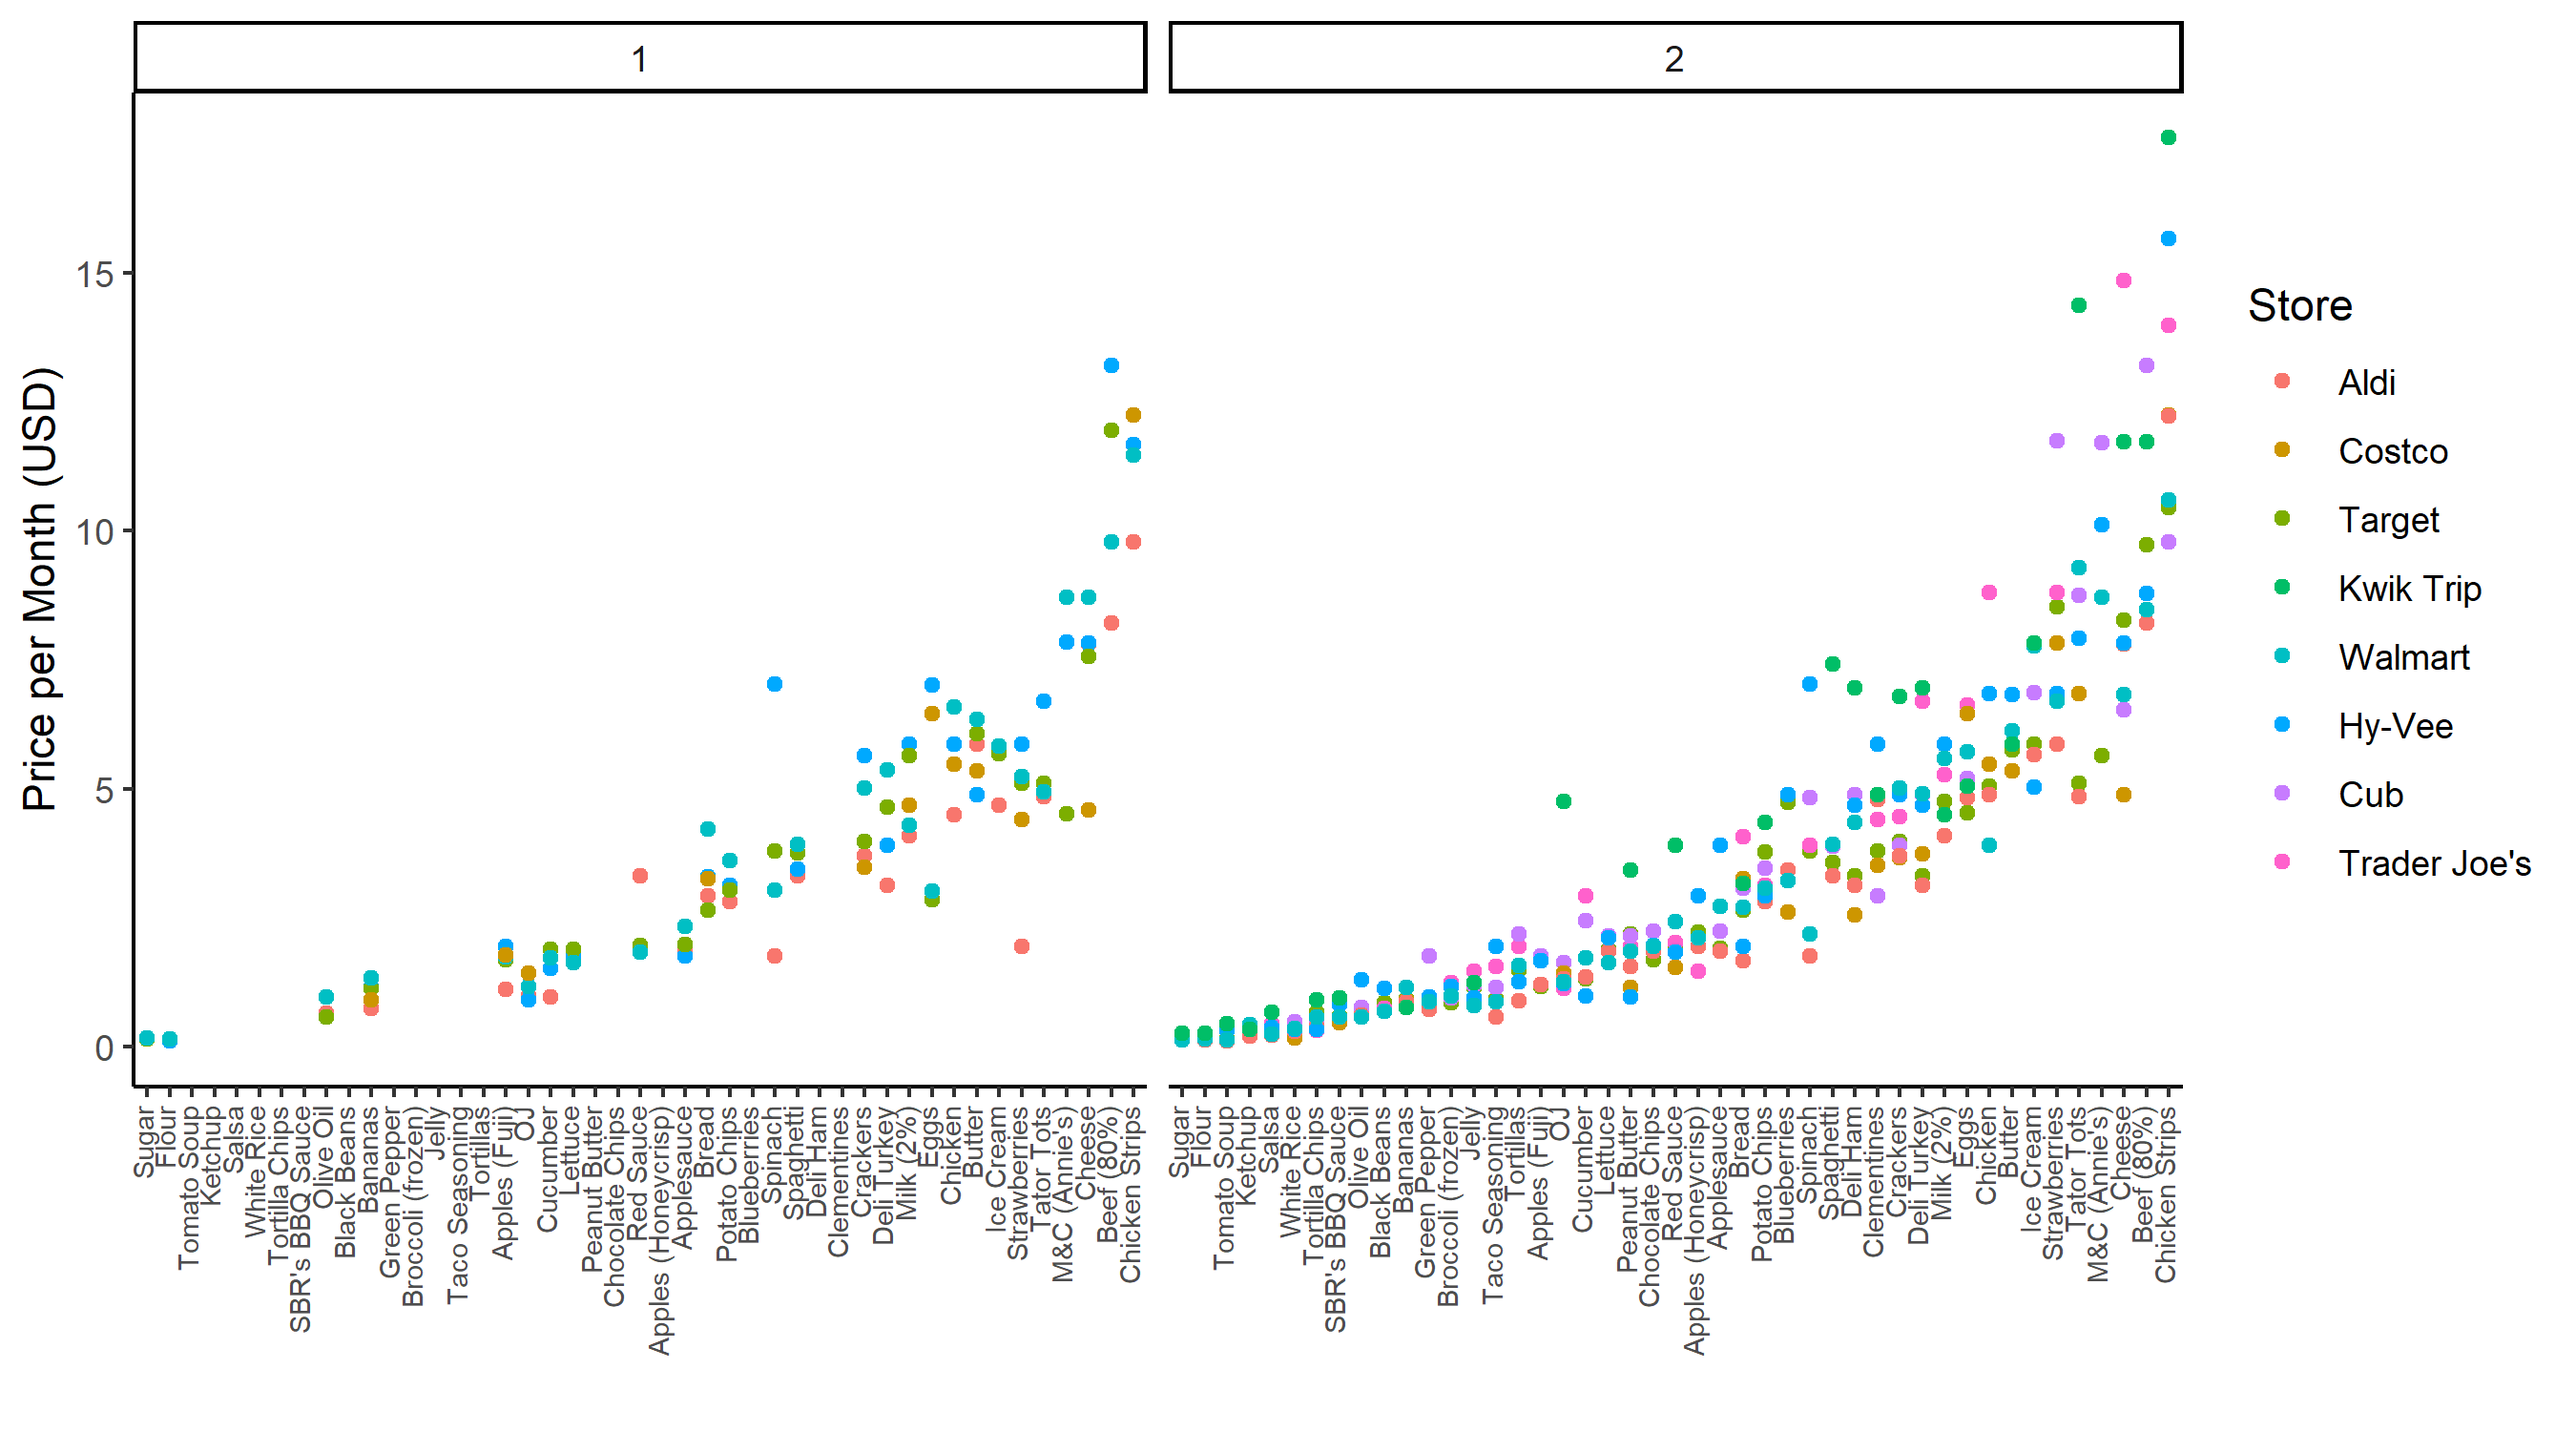
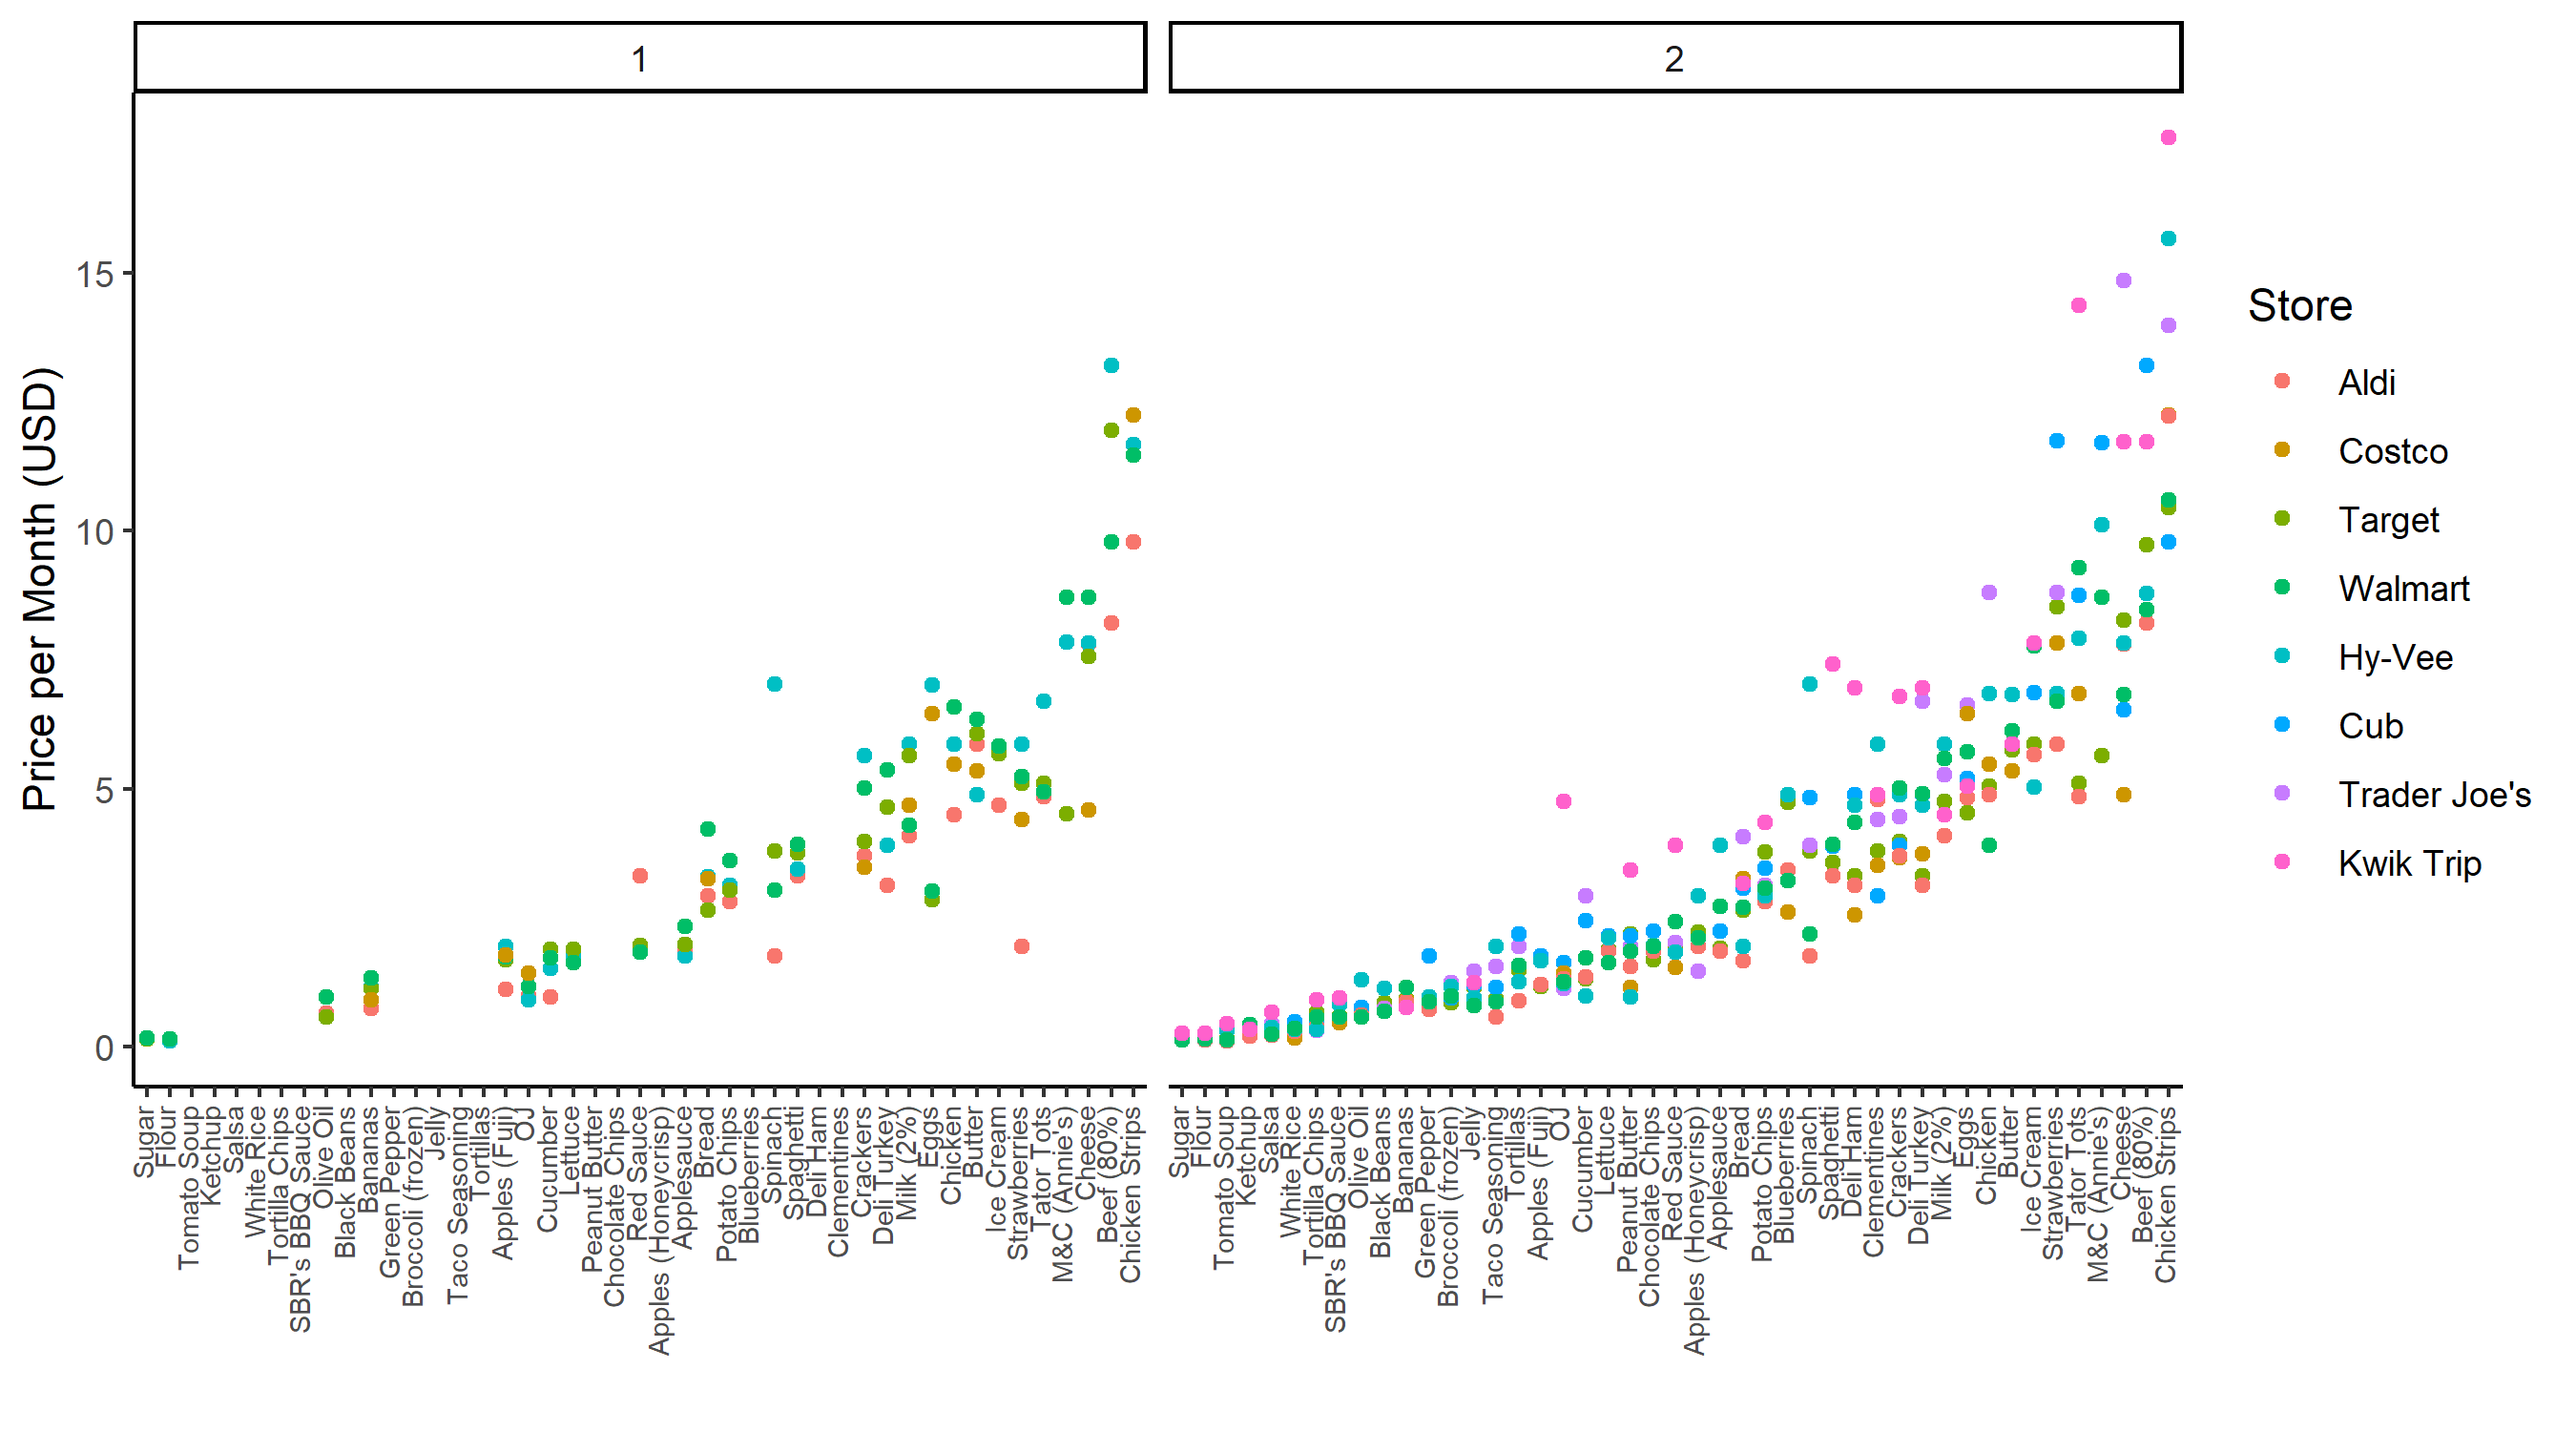
Reorder stores to be in increasing order

diff --git a/results2.md b/results2.md
@@ -18,24 +18,24 @@ Number of obs: 421, groups:  Item, 45; seasonal, 2
 
 Fixed effects:
                    Estimate Std. Error        df t value Pr(>|t|)
-(Intercept)         0.69381    0.33353   1.80554   2.080 0.186564
-StoreCostco         0.08229    0.05133 368.26188   1.603 0.109760
-StoreTarget         0.13817    0.04006 368.08132   3.450 0.000627
-StoreKwik Trip      0.60458    0.05447 368.20468  11.099  < 2e-16
-StoreWalmart        0.19354    0.03990 368.08022   4.850 1.82e-06
-StoreHy-Vee         0.27090    0.03990 368.08022   6.789 4.54e-11
-StoreCub            0.32719    0.04540 368.15802   7.208 3.25e-12
-StoreTrader Joe's   0.33595    0.05014 368.25296   6.701 7.78e-11
+(Intercept)         0.69381    0.33353   1.80553   2.080 0.186564
+StoreCostco         0.08229    0.05133 368.26187   1.603 0.109760
+StoreTarget         0.13817    0.04006 368.08131   3.450 0.000627
+StoreWalmart        0.19354    0.03990 368.08021   4.850 1.82e-06
+StoreHy-Vee         0.27090    0.03990 368.08021   6.789 4.54e-11
+StoreCub            0.32719    0.04540 368.15801   7.208 3.25e-12
+StoreTrader Joe's   0.33595    0.05014 368.25295   6.701 7.78e-11
+StoreKwik Trip      0.60458    0.05447 368.20467  11.099  < 2e-16
 
 Correlation of Fixed Effects:
-            (Intr) StrCst StrTrg StrKwT StrWlm StrH-V StorCb
+            (Intr) StrCst StrTrg StrWlm StrH-V StorCb StrTJ'
 StoreCostco -0.045                                          
 StoreTarget -0.060  0.386                                   
-StoreKwkTrp -0.045  0.297  0.366                            
-StoreWalmrt -0.060  0.389  0.503  0.368                     
-StoreHy-Vee -0.060  0.391  0.503  0.368  0.505              
-StoreCub    -0.061  0.340  0.442  0.326  0.444  0.444       
-StorTrdrJ's -0.057  0.311  0.397  0.292  0.400  0.399  0.361
+StoreWalmrt -0.060  0.389  0.503                            
+StoreHy-Vee -0.060  0.391  0.503  0.505                     
+StoreCub    -0.061  0.340  0.442  0.444  0.444              
+StorTrdrJ's -0.057  0.311  0.397  0.400  0.399  0.361       
+StoreKwkTrp -0.045  0.297  0.366  0.368  0.368  0.326  0.292
 
 ```
 
